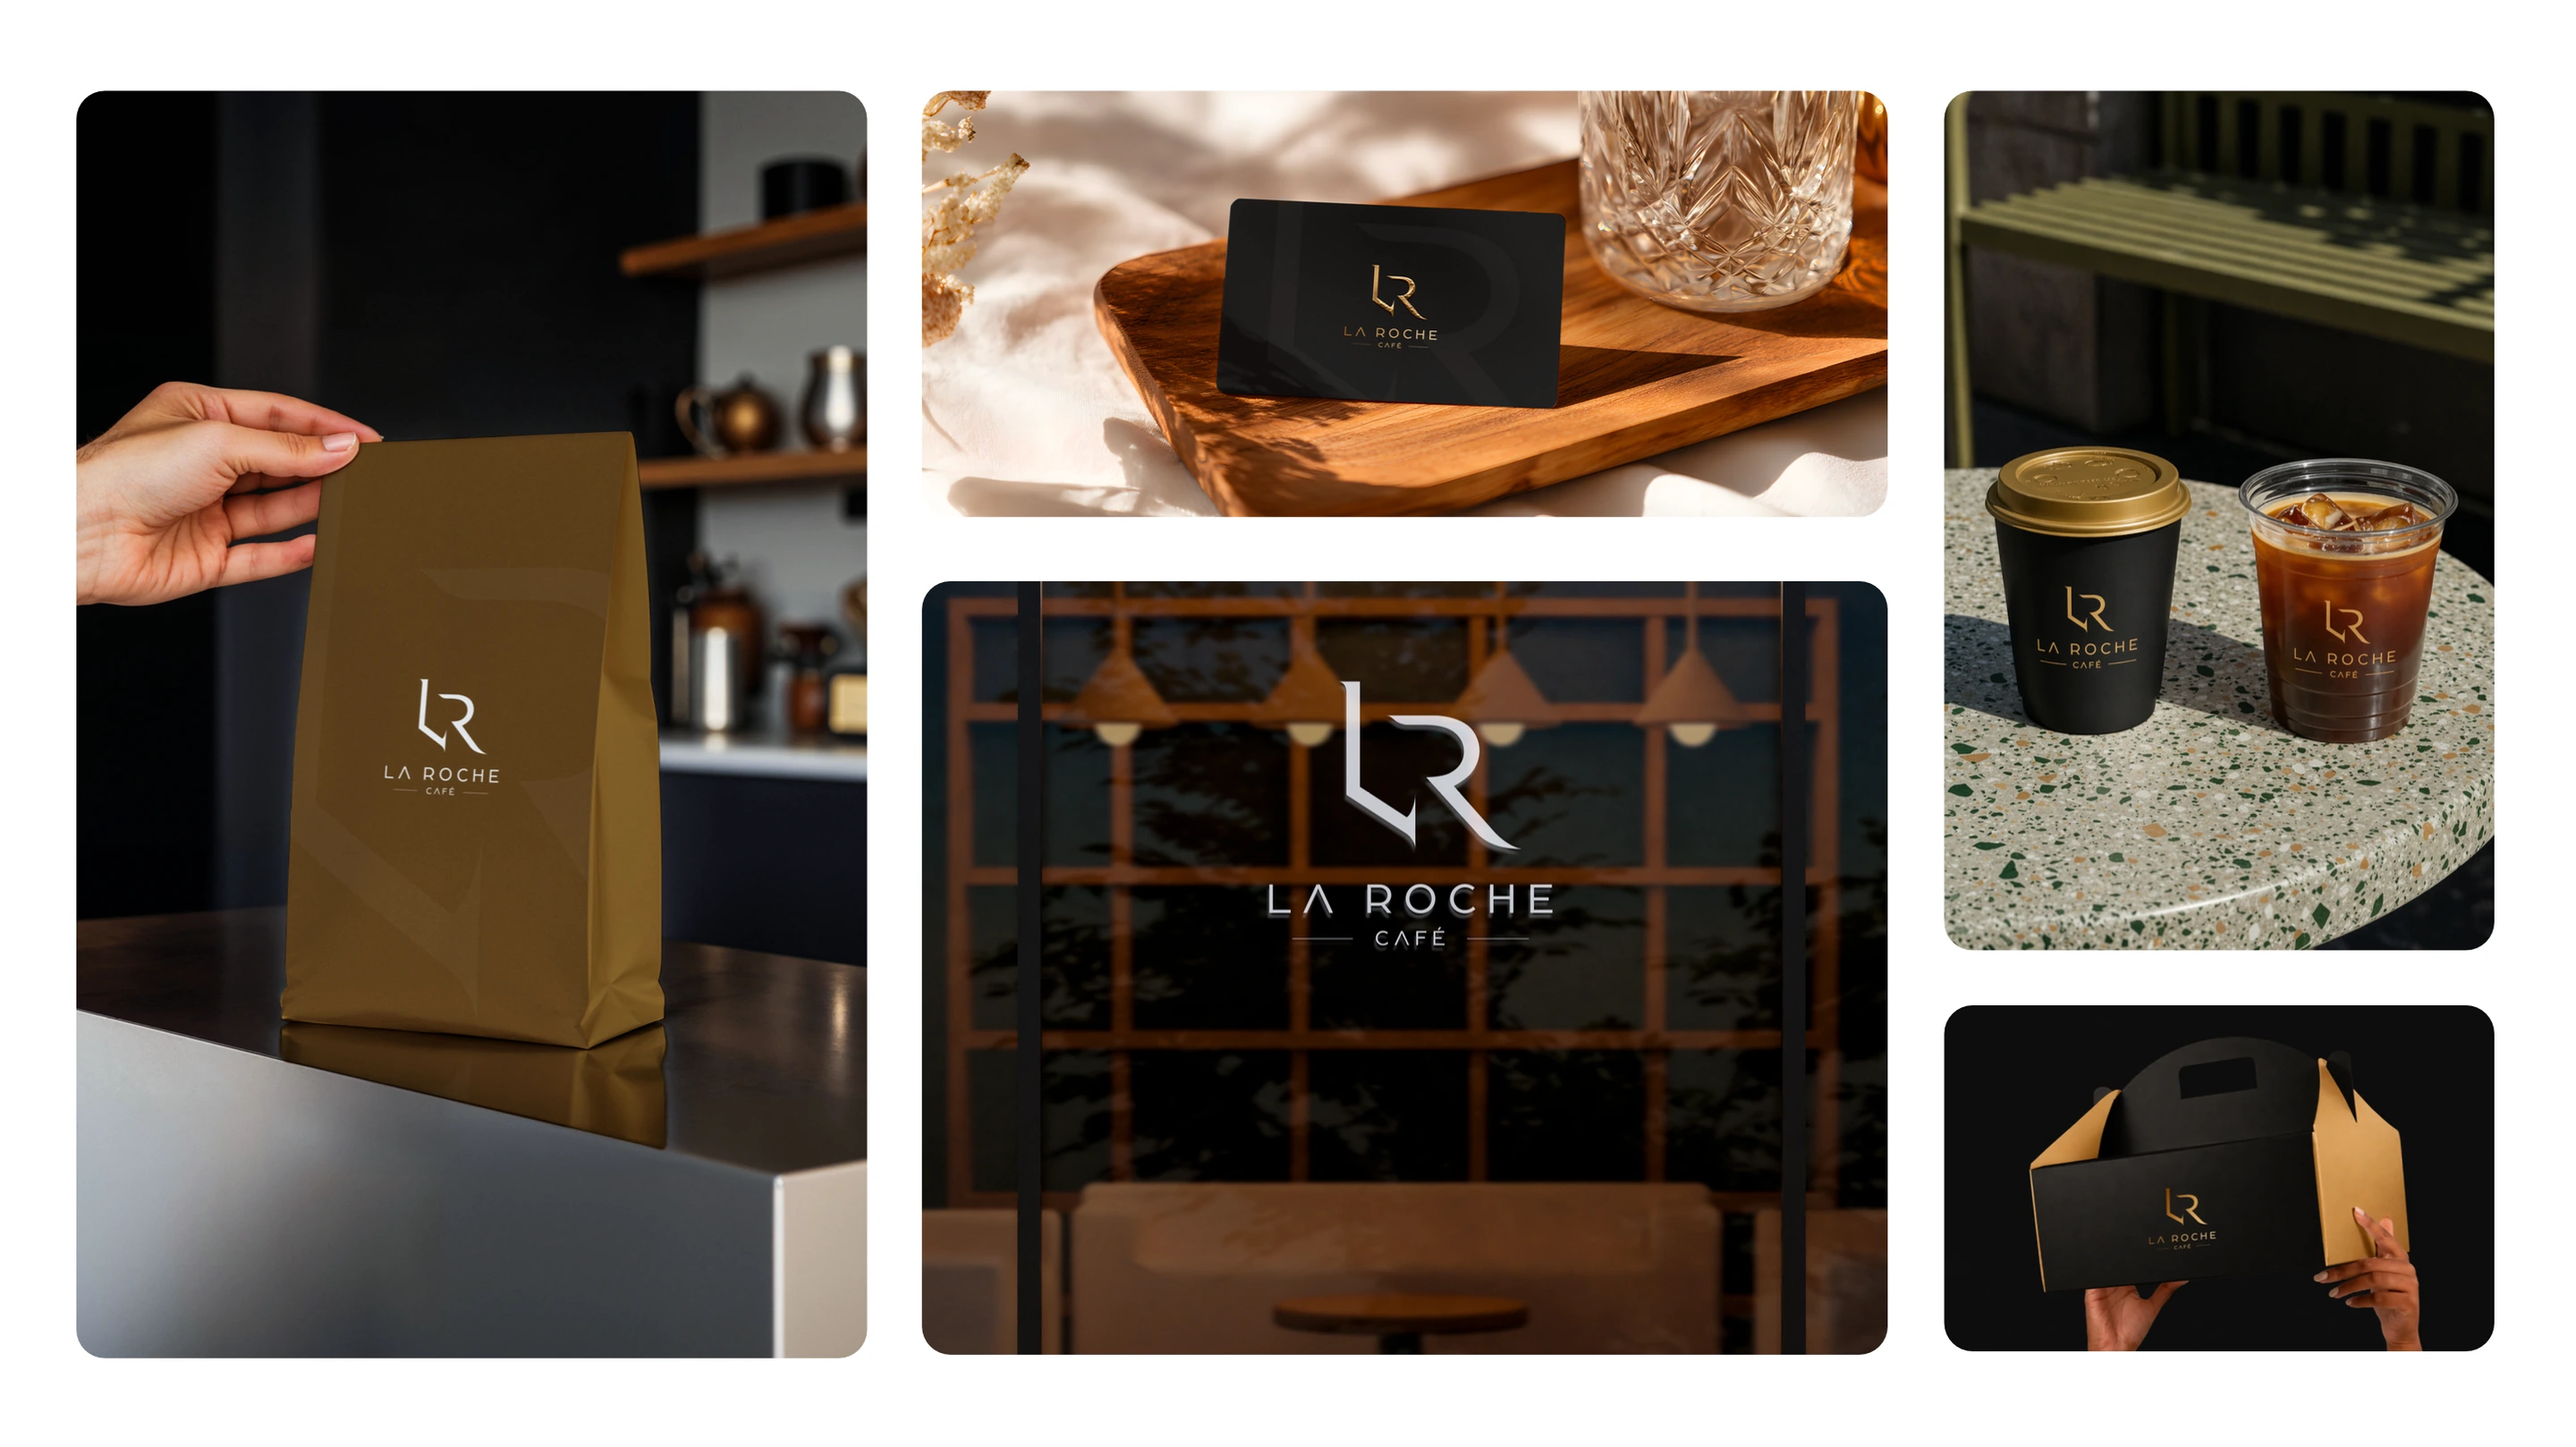
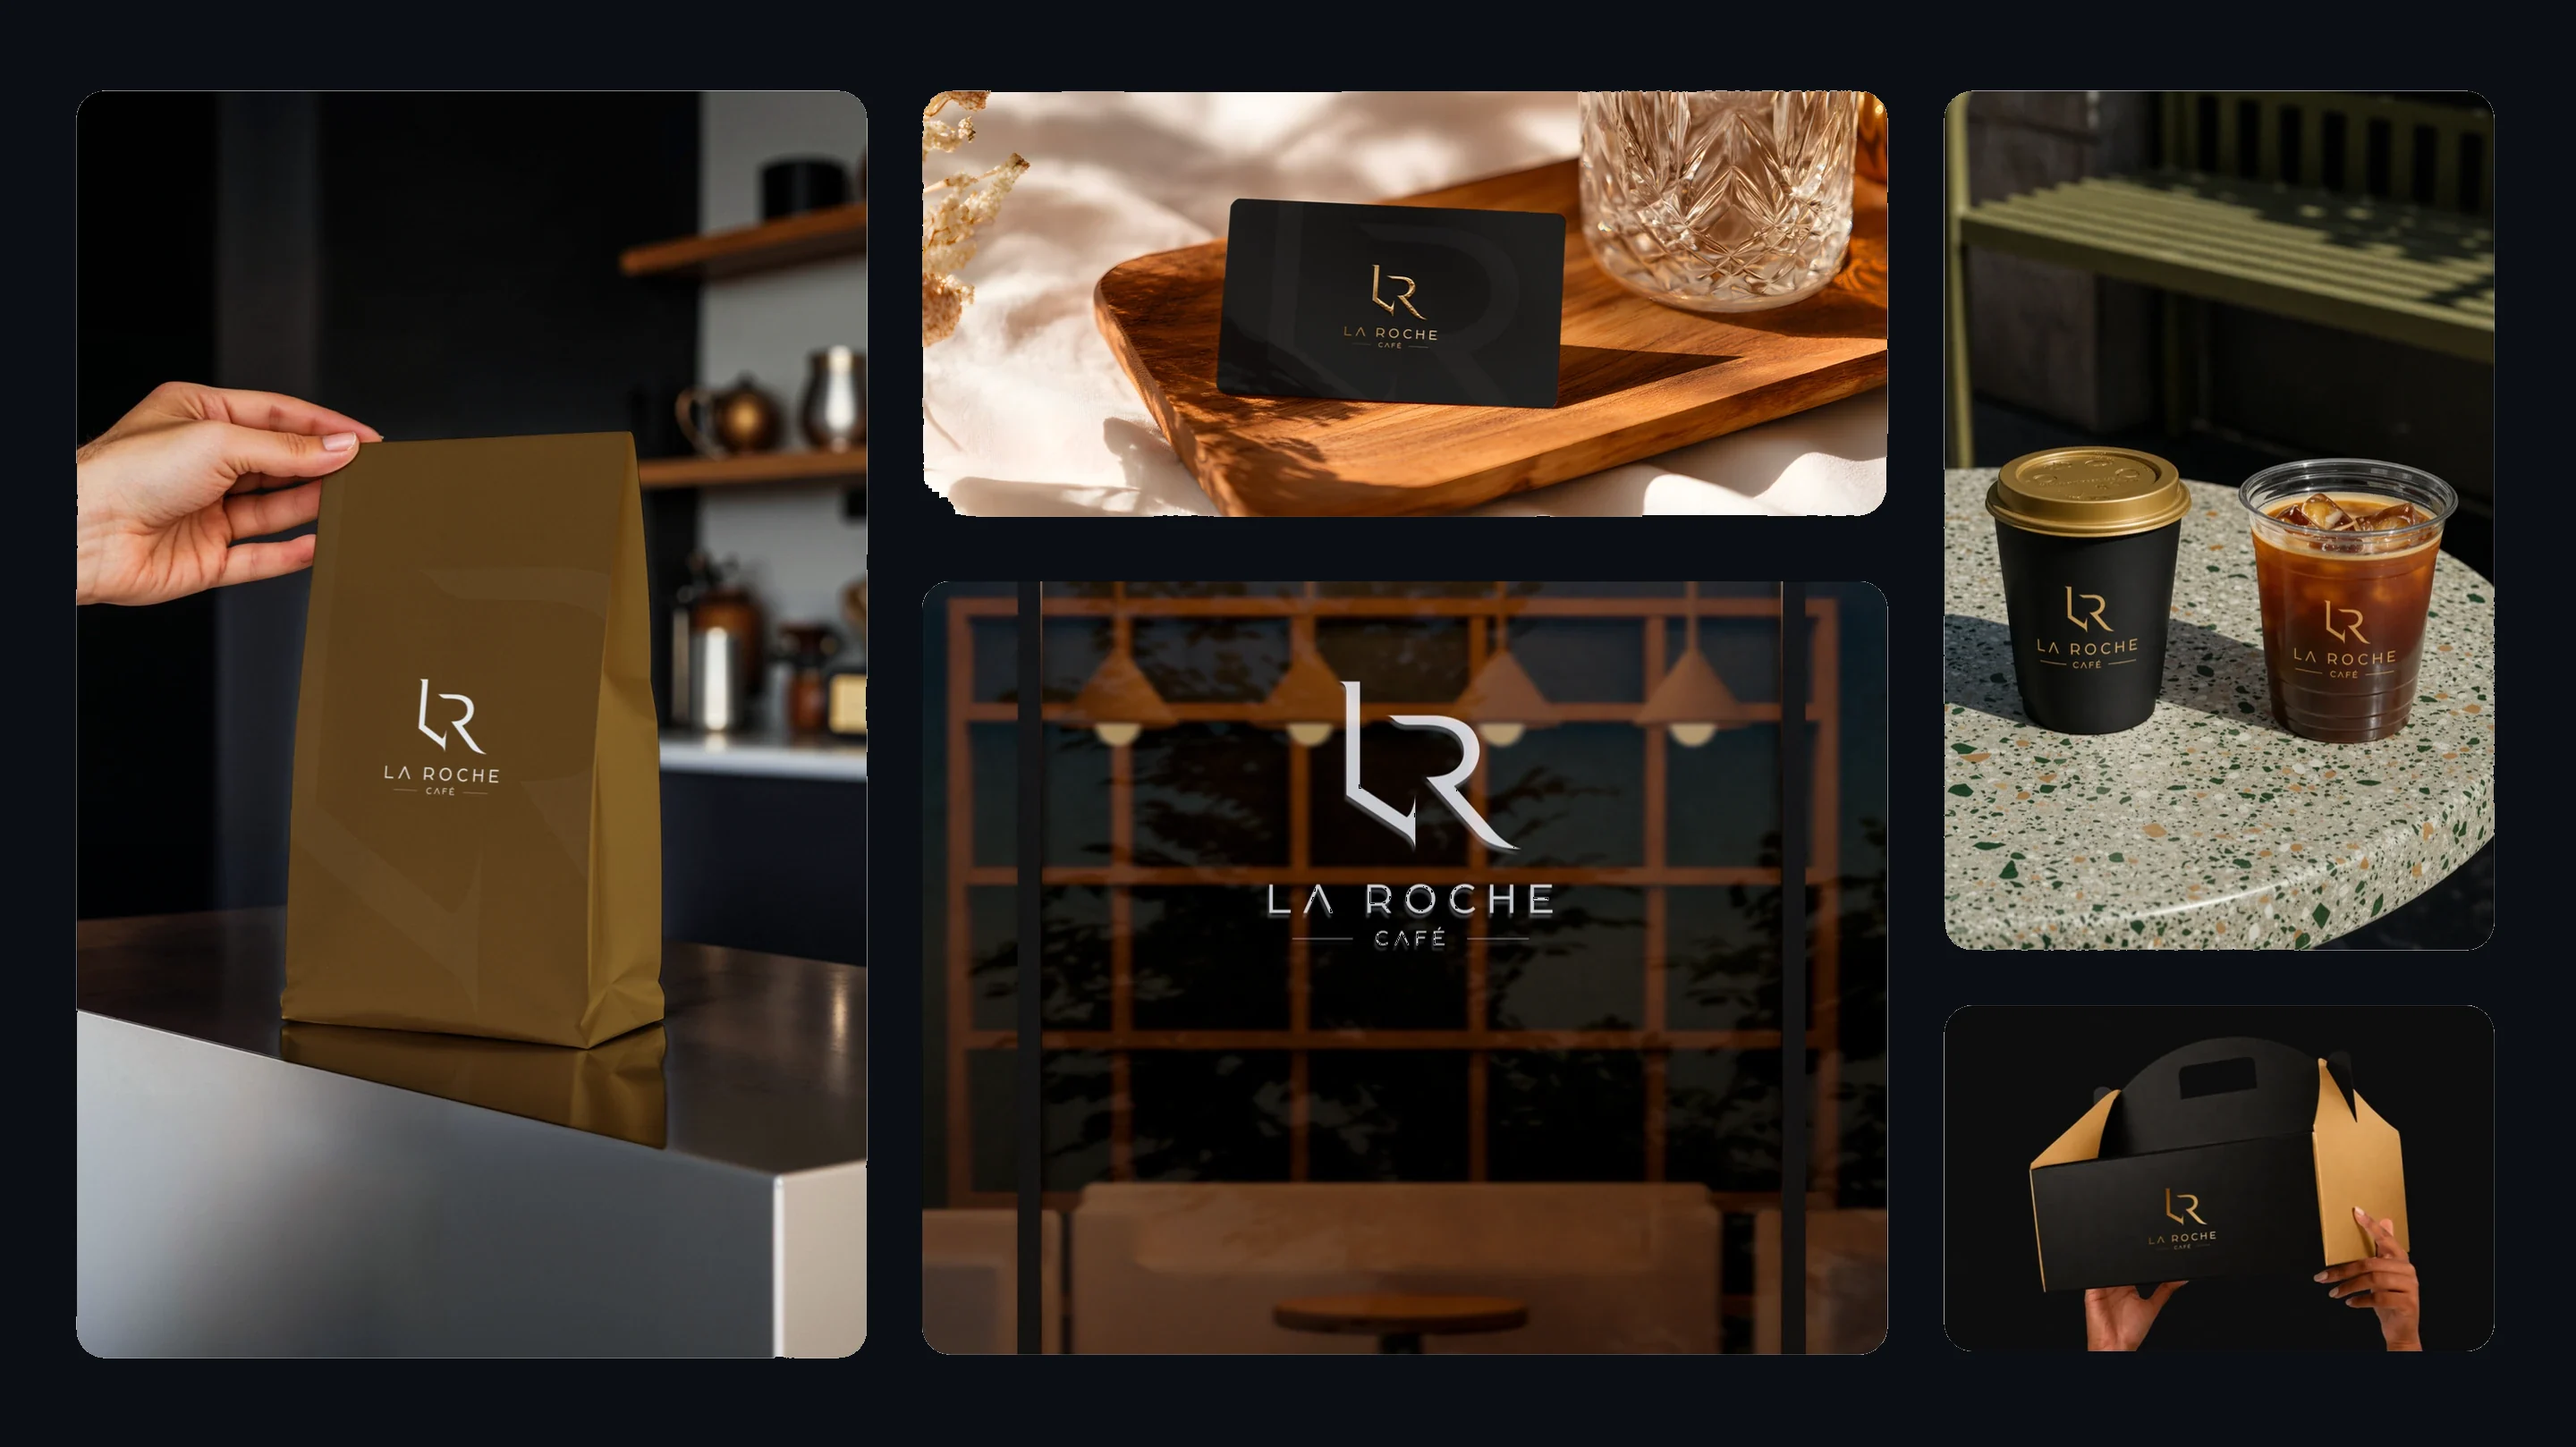
Cases: nome do cliente e serviço em legenda discreta, alt com descrição real, case da La Roche sem a moldura branca (fundo escuro) e mais respiro para a legenda aparecer

Changed region(s): [[0.0, 0.0, 1.0, 1.0]]

diff --git a/index.html b/index.html
@@ -193,13 +193,16 @@
     </div>
     <div class="cases wrap">
       <article class="case" style="--c1:#1F4FD8;--c2:#0C1C46">
-        <div class="case__media"><img class="case__img" src="assets/img/cases/case-02.webp" width="2880" height="1610" alt="Case 01" loading="lazy" decoding="async"></div>
+        <div class="case__media"><img class="case__img" src="assets/img/cases/case-02.webp" width="2880" height="1610" alt="Estande da Gremski Arquitetura e Interiores com a nova identidade" loading="lazy" decoding="async"></div>
+        <div class="case__info"><h3>Gremski Arquitetura e Interiores</h3><p>Branding 360°</p></div>
       </article>
       <article class="case" style="--c1:#D8DEE9;--c2:#9BA5B5">
-        <div class="case__media"><img class="case__img" src="assets/img/cases/case-03.webp" width="2880" height="1610" alt="Case 02" loading="lazy" decoding="async"></div>
+        <div class="case__media"><img class="case__img" src="assets/img/cases/case-03.webp" width="2880" height="1610" alt="Embalagem, cartão, copos e ambiente da La Roche Café com a nova identidade" loading="lazy" decoding="async"></div>
+        <div class="case__info"><h3>La Roche Café</h3><p>Branding 360° + Identidade visual</p></div>
       </article>
       <article class="case" style="--c1:#3FA9F5;--c2:#11328D">
-        <div class="case__media"><img class="case__img" src="assets/img/cases/case-01.webp" width="2880" height="1610" alt="Case 03" loading="lazy" decoding="async"></div>
+        <div class="case__media"><img class="case__img" src="assets/img/cases/case-01.webp" width="2880" height="1610" alt="Cartões de visita da Dandrade Design com a nova identidade" loading="lazy" decoding="async"></div>
+        <div class="case__info"><h3>Dandrade Design</h3><p>Identidade visual + Branding</p></div>
       </article>
     </div>
   </section>

diff --git a/css/style.css b/css/style.css
@@ -630,3 +630,13 @@ body.is-loading .cta-baixo { translate: 0 20px !important; }
 /* título novo de O que fazemos: 2 linhas no computador (com 1fr 1fr "procurou" caía sozinho na 2ª linha) */
 .servicos__head { grid-template-columns: 1.35fr 1fr; }
 @media (max-width: 900px) { .servicos__head { grid-template-columns: 1fr; } }
+
+/* cases: legenda discreta embaixo de cada imagem (nome do cliente e o que foi feito); serve para quantos cases entrarem */
+.case__info { grid-template-columns: 1fr auto; padding: 16px 4px 0; }
+.case__info h3 { font-size: clamp(18px, 1.5vw, 22px); font-weight: 500; letter-spacing: -.02em; color: var(--gelo); }
+.case__info p { font-size: 15px; color: var(--apoio); }
+@media (max-width: 900px) { .case__info { gap: 4px; padding-top: 12px; } }
+/* mais respiro embaixo de cada case: a legenda continua à vista quando o case seguinte começa a subir por cima */
+.case { padding-bottom: calc(6vh + 72px); }
+.case__media { max-height: 68vh; }
+@media (max-width: 900px) { .case { padding-bottom: calc(6vh + 48px); } }
